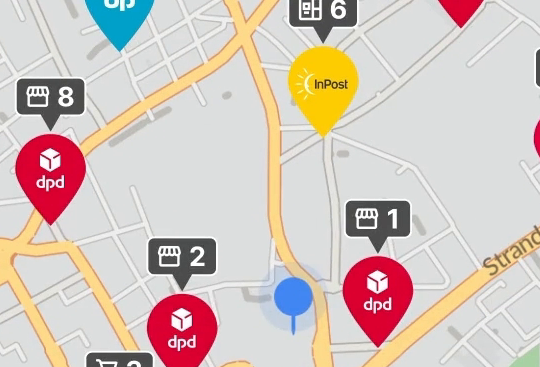
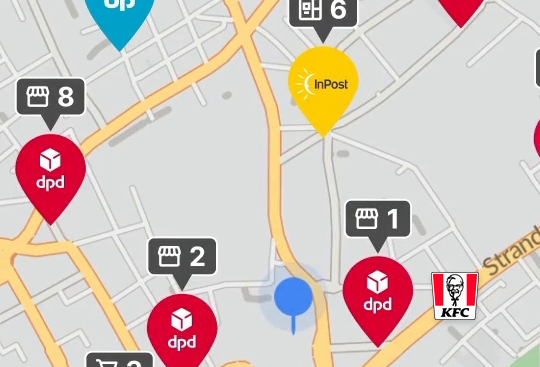
Pickup Point scene: add KFC landmark next to the selected pin
Places the user-supplied KFC logo on the HubBox map beside the selected
dpd pin; the push-in and zoom bubble now frame the pin and the landmark.

Claude-Session: https://claude.ai/code/session_01UTaExazg5UdCv49HzuUQif

Changed region(s): [[0.8, 0.7193, 0.8889, 0.8992]]

diff --git a/src/PickupPointMap/PickupPointMap.tsx b/src/PickupPointMap/PickupPointMap.tsx
@@ -27,8 +27,11 @@ const SW = 470; // content width
 const MAP = { y: 573, h: 320 };
 const MAP_SRC = { w: 540, h: 367 };
 const PIN = { x: 378, y: 290 }; // selected pin (dpd 1) in map-source px
-const pinX = SX + (PIN.x / MAP_SRC.w) * SW;
-const pinY = MAP.y + (PIN.y / MAP_SRC.h) * MAP.h;
+const FOCUS = { x: 412, y: 296 }; // between the selected pin and the KFC next to it (map-source px)
+const pinX0 = SX + (PIN.x / MAP_SRC.w) * SW;
+const pinY0 = MAP.y + (PIN.y / MAP_SRC.h) * MAP.h;
+const focX = SX + (FOCUS.x / MAP_SRC.w) * SW;
+const focY = MAP.y + (FOCUS.y / MAP_SRC.h) * MAP.h;
 
 const DESC = "On Garrick Street, 2 min from Covent Garden station. Look for the Snappy Snaps sign.";
 
@@ -110,6 +113,8 @@ export const PickupPointMap: React.FC = () => {
   const bubble = p(f, 6.85, 7.4);
   const line = p(f, 7.0, 7.4, IO);
   const mapScale = 1 + 0.55 * push;
+  const pinX = focX + (pinX0 - focX) * mapScale; // the pin as it sits after the push-in
+  const pinY = focY + (pinY0 - focY) * mapScale;
 
   // cursor + click
   const curIn = p(f, 7.55, 7.75);
@@ -193,7 +198,7 @@ export const PickupPointMap: React.FC = () => {
               width: SW,
               height: MAP.h,
               transform: `scale(${(1.08 - 0.08 * mapQ) * mapScale})`,
-              transformOrigin: `${(PIN.x / MAP_SRC.w) * 100}% ${(PIN.y / MAP_SRC.h) * 100}%`,
+              transformOrigin: `${(FOCUS.x / MAP_SRC.w) * 100}% ${(FOCUS.y / MAP_SRC.h) * 100}%`,
             }}
           />
         </div>
@@ -311,10 +316,10 @@ export const PickupPointMap: React.FC = () => {
             src={staticFile("pickup/map.png")}
             style={{
               position: "absolute",
-              width: MAP_SRC.w * 1.35,
-              height: MAP_SRC.h * 1.35,
-              left: BUB.r - 6 - PIN.x * 1.35,
-              top: BUB.r - 6 - (PIN.y - 4) * 1.35,
+              width: MAP_SRC.w * 1.05,
+              height: MAP_SRC.h * 1.05,
+              left: BUB.r - 6 - FOCUS.x * 1.05,
+              top: BUB.r - 6 - (FOCUS.y - 22) * 1.05,
             }}
           />
         </div>
